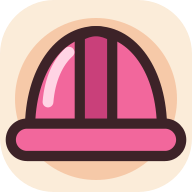
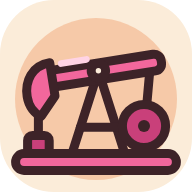
Ícone novo: cavalinho de petróleo no lugar do capacete
- Ícone da aba, do app instalado e dos avisos: bomba de cavalo-de-pau
  rosa, no mesmo estilo adesivo retrô.
- No menu, o cavalinho aparece só no contorno, na cor do tema.

Claude-Session: https://claude.ai/code/session_015XWZxhfRLMmSb4nNeaCfPA

diff --git a/src/components/Brand.tsx b/src/components/Brand.tsx
@@ -1,10 +1,15 @@
 export function Brand() {
   return (
     <div className="brand">
-      <svg width="30" height="30" viewBox="0 0 30 30" aria-hidden="true">
-        <path d="M5 20C5 11.5 9.5 5.5 15 5.5S25 11.5 25 20Z" fill="none" stroke="var(--accent)" strokeWidth="1.6" strokeLinejoin="round" />
-        <path d="M12.6 20V6.4M17.4 20V6.4" stroke="var(--accent)" strokeWidth="1.4" />
-        <rect x="2.5" y="20" width="25" height="4.6" rx="2.3" fill="none" stroke="var(--accent)" strokeWidth="1.6" />
+      <svg width="30" height="30" viewBox="0 0 32 32" aria-hidden="true" fill="none" stroke="var(--accent)" strokeWidth="1.6" strokeLinejoin="round" strokeLinecap="round">
+        <path d="M6.4 17.4V22.6M12 25.6L16.4 11.8L20.8 25.6M13.4 21.2H19.4M25 11.4L24.2 20.4" />
+        <circle cx="24" cy="21" r="3.6" />
+        <g transform="rotate(-9 16.4 11.8)">
+          <rect x="8" y="10.5" width="19" height="2.8" rx="1.2" />
+          <path d="M8.6 9.2C5.6 9.2 4 11.6 4 14.2C4 15.9 4.8 17.2 5.8 17.8L8.6 14.8Z" />
+        </g>
+        <rect x="4.6" y="22.6" width="3.6" height="3" rx="0.8" />
+        <path d="M2.6 25.6H29.4" />
       </svg>
       <div><b>Fundo do Poço</b><span>BOLETIM DE ESTUDOS</span></div>
     </div>

diff --git a/CLAUDE.md b/CLAUDE.md
@@ -6,7 +6,7 @@ Aplicativo de acompanhamento de estudos de um aluno de Engenharia de Petróleo (
 1. Começou como uma página publicada no Claude (artifact) com os mesmos recursos.
 2. Migrado para Next.js 15 + Supabase para funcionar fora do Claude. Deploy: GitHub → Vercel (automático a cada push em `main`).
 3. A cópia JSON exportada da primeira versão (`version: 1`) é importada por `src/lib/legacy.ts`.
-4. Renomeado para **Fundo do Poço** (pedido do dono). Ícone: capacete de obra rosa, estilo adesivo retrô (`src/app/icon.svg`, `favicon.ico`, `apple-icon.png` gerados do SVG); no menu (`Brand.tsx`) o capacete segue a cor do tema. Nos textos, chamar de "o app". O identificador interno das cópias de segurança continua `diario-de-sonda` (cópias antigas seguem abrindo).
+4. Renomeado para **Fundo do Poço** (pedido do dono). Ícone: cavalinho de petróleo (bomba de cavalo-de-pau) rosa, estilo adesivo retrô (pedido do dono, antes era um capacete; `src/app/icon.svg`, `favicon.ico`, `apple-icon.png` e `public/icone-*.png` gerados do SVG); no menu (`Brand.tsx`) o cavalinho segue a cor do tema, só no contorno. Nos textos, chamar de "o app". O identificador interno das cópias de segurança continua `diario-de-sonda` (cópias antigas seguem abrindo).
 
 ## Regras do produto (não negociáveis)
 - **Sem autoavaliação, banco de erros, índice de domínio nem revisão espaçada** (pedido do dono, migration `20261024000000_day_off_sem_autoavaliacao.sql`, que apagou as tabelas `mistakes`, `review_items`, `review_logs` e as colunas de confiança/resultado/questões das sessões): "não vinha sendo útil". O foco é **acordar e saber exatamente o que estudar**. Ao parar o cronômetro, a sessão só é salva (sem perguntas). Revisar é uma **tarefa da lista de tarefas** (`tasks`), não uma coisa à parte. Não recriar essas partes sem o dono pedir.
